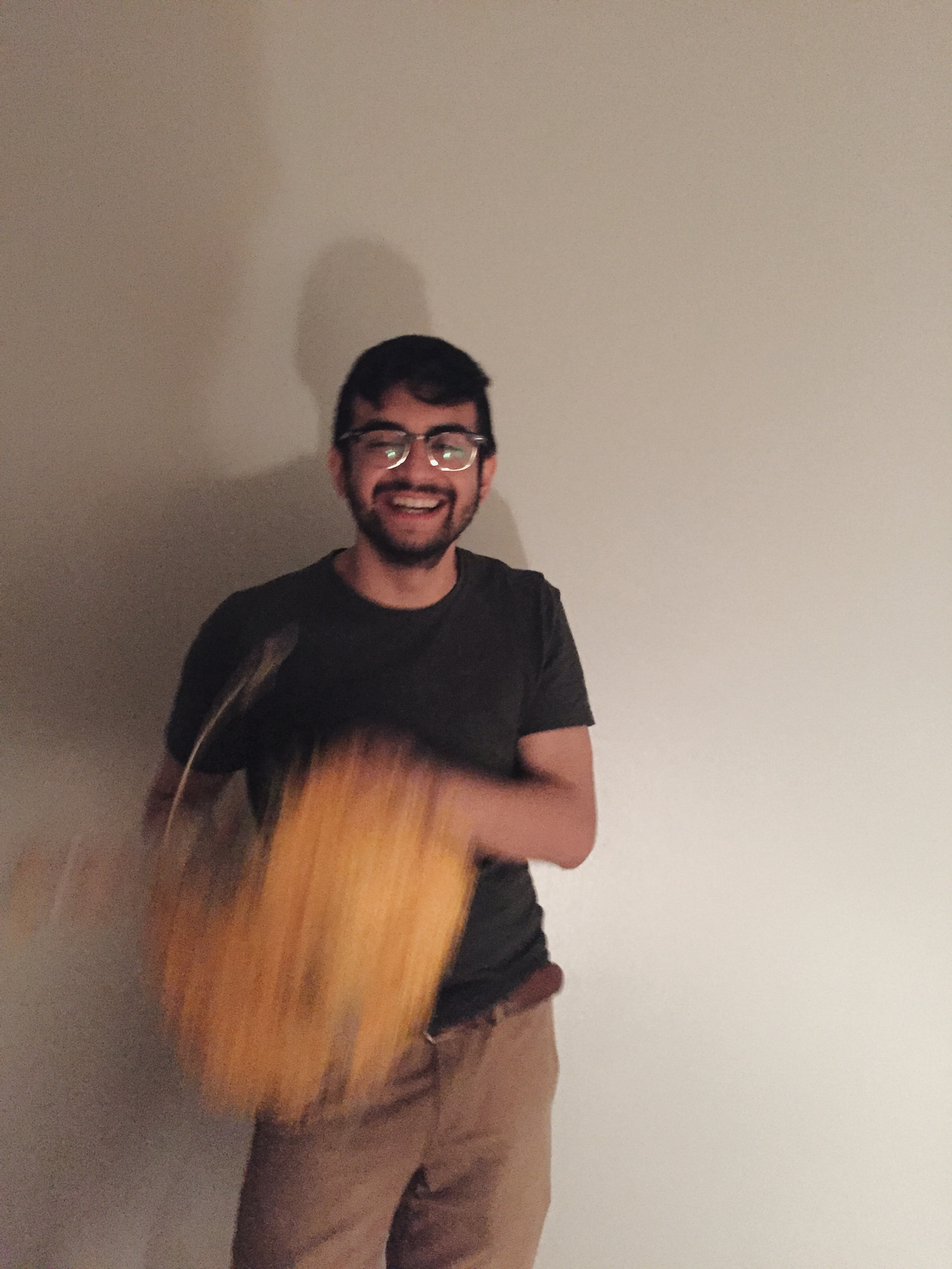
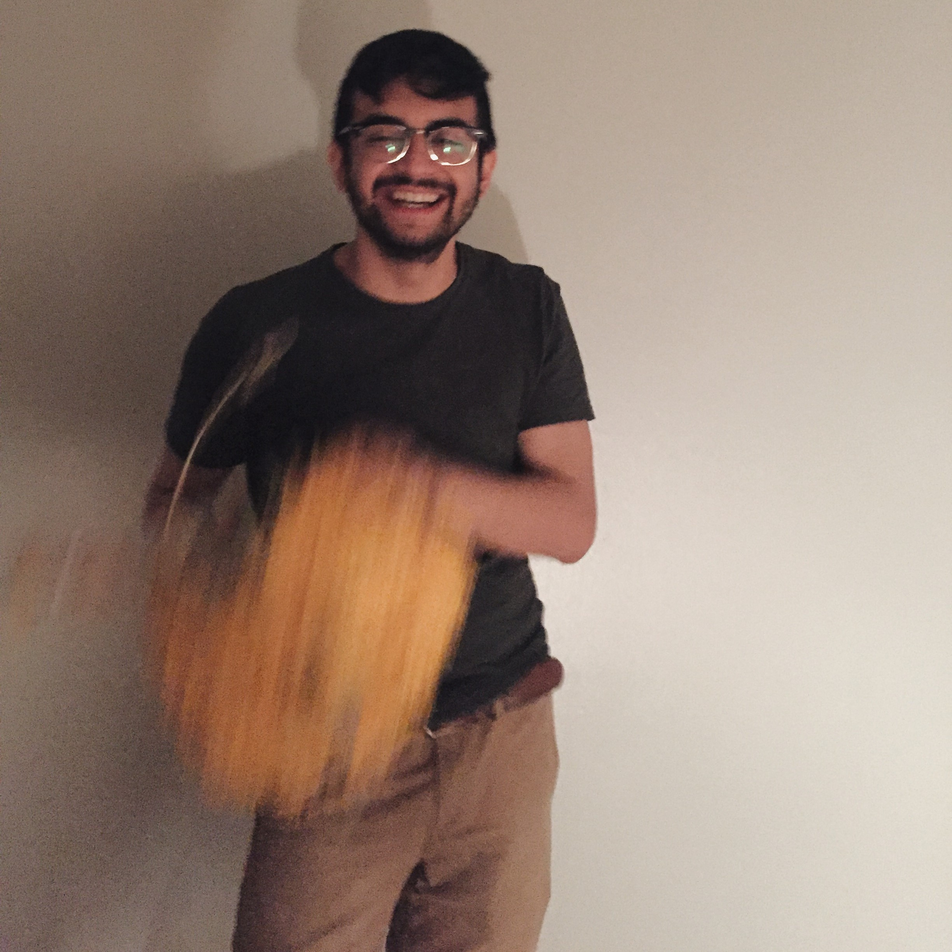
adjust image resolutions for equal ratios and complete splash

diff --git a/templates/splash.html b/templates/splash.html
@@ -9,6 +9,9 @@
     #background {
         background-size: cover;
     }*/
+    .d-flex {
+        display:flex;
+    }
     </style>
 {% endblock %}
 {% block content %}
@@ -48,7 +51,7 @@
                                 <p>Check out our team!</p>
                             </li>
                             <li>
-                                <a target="_blank" href="/about" class="btn btn-primary btn-lg" rel="nofollow">About Us</a>
+                                <a href="/about" class="btn btn-primary btn-lg" rel="nofollow">About Us</a>
                             </li>
                         </ul>
                     </div>
@@ -64,7 +67,7 @@
                     <!--Video source-->
                     <div align="center" class="embed-responsive embed-responsive-16by9">
                         <video autoplay loop class="embed-responsive-item">                        
-                            <source src="https://mdbootstrap.com/img/video/Lines.mp4" type="video/mp4" />
+                            <source src="https://mdbootstrap.com/img/video/forest.mp4" type="video/mp4" />
                         </video>
                     </div>
                     <div class="mask"></div>
@@ -75,13 +78,21 @@
                     <div class="flex-center animated fadeInDown">
                         <ul>
                             <li>
-                                <h1 class="h1-responsive">Our Models</h1>
+                                <h1 class="h1-responsive">Our Bookshelf</h1>
                             </li>
                             <li>
-                                <p>Click below to check them out!</p>
+                                <p>Click below to check out what we got!</p>
                             </li>
                             <li>
-                                <a target="_blank" href="/models" class="btn btn-primary btn-lg" rel="nofollow">Bookshelf</a>
+                                <div class="btn-group">
+                                    <button class="btn btn-primary dropdown-toggle" type="button" data-toggle="dropdown" aria-haspopup="true" aria-expanded="false">Models</button>
+                                
+                                    <div class="dropdown-menu">
+                                        <a class="dropdown-item" href="#">Books</a>
+                                        <a class="dropdown-item" href="#">Authors</a>
+                                        <a class="dropdown-item" href="#">Publishers</a>
+                                    </div>
+                                </div>
                             </li>
                         </ul>
                     </div>
@@ -89,38 +100,6 @@
                 <!--/.Caption-->
             </div>
             <!--/Second slide-->
-
-            <!--Third slide-->
-            <div class="carousel-item">
-                <!--Mask color-->
-                <div class="view hm-black-light">
-                    <!--Video source-->
-                    <div align="center" class="embed-responsive embed-responsive-16by9">
-                        <video autoplay loop class="embed-responsive-item">
-                            <source src="https://www.youtube.com/watch?v=9G7ER_pVnG8" type="video/mp4" />
-                        </video>
-                    </div>
-                    <div class="mask"></div>
-                </div>
-
-                <!--Caption-->
-                <div class="carousel-caption">
-                    <div class="flex-center animated fadeInDown">
-                        <ul>
-                            <li>
-                                <h1 class="h1-responsive">Visit our support forum</h1></li>
-                            <li>
-                                <p>Our community can help you with any question</p>
-                            </li>
-                            <li>
-                                <a target="_blank" href="https://mdbootstrap.com/forums/forum/support/" class="btn btn-default btn-lg" rel="nofollow">Support forum</a>
-                            </li>
-                        </ul>
-                    </div>
-                </div>
-                <!--/.Caption-->
-            </div>
-            <!--/Third slide-->
         </div>
         <!--/.Slides-->
 
@@ -145,10 +124,10 @@
             </div>
             <br/>
             <div class="container-fluid">
-                <div class="row">
+                <div class="row d-flex">
                     <div class="col-md-1 ml-auto"></div>                          
                     <!--First column-->
-                    <div class="col-md-2 ml-auto">
+                    <div class="col-md-2 ml-auto d-flex">
                         <!--Card-->
                         <div class="card">
                         
@@ -160,8 +139,8 @@
                                 <!--Title-->
                                 <h4 class="card-title">Carlos Loya</h4>
                                 <!--Text-->
-                                <p class="card-text">Some quick example text to build on the card title and make up the bulk of the card's content.</p>
-                                <a href="#" class="btn btn-primary">Button</a>
+                                <p align="center" class="card-text">Carlos Loya (C)</p>
+                                <center><a type="button" class="btn btn-elegant btn-git"><i class="fa fa-github left"></i></a></center>
                             </div>
                         
                         </div>
@@ -170,7 +149,7 @@
                     <!--/.First column-->
                     <hr class="w-100 clearfix d-sm-none">
                     <!--Second column-->
-                    <div class="col-md-2 ml-auto">
+                    <div class="col-md-2 ml-auto d-flex">
                         <!--Card-->
                         <div class="card">
                             <!--Card image-->
@@ -181,8 +160,8 @@
                                 <!--Title-->
                                 <h4 class="card-title">Andrew Chen</h4>
                                 <!--Text-->
-                                <p class="card-text">Some quick example text to build on the card title and make up the bulk of the card's content.</p>
-                                <a href="#" class="btn btn-primary">Button</a>
+                                <p align="center" class="card-text">Andrew Chen (A)</p>
+                                <center><a type="button" class="btn btn-elegant btn-git"><i class="fa fa-github left"></i></a></center>                           
                             </div>
                         
                         </div>
@@ -191,7 +170,7 @@
                     <!--/.Second column-->
                     <hr class="w-100 clearfix d-sm-none">
                     <!--Third column-->
-                    <div class="col-md-2 ml-auto">
+                    <div class="col-md-2 ml-auto d-flex">
                         <!--Card-->
                         <div class="card">
                             <!--Card image-->
@@ -202,17 +181,16 @@
                                 <!--Title-->
                                 <h4 class="card-title">Nancy Tran</h4>
                                 <!--Text-->
-                                <p class="card-text">Some quick example text to build on the card title and make up the bulk of the card's content.</p>
-                                <a href="#" class="btn btn-primary">Button</a>
+                                <p align="center" class="card-text">Nancy Tran (N)</p>
+                                <center><a type="button" class="btn btn-elegant btn-git"><i class="fa fa-github left"></i></a></center>
                             </div>
-                        
                         </div>
                         <!--/.Card-->
                     </div>
                     <!--/.Third column-->
                     <hr class="w-100 clearfix d-sm-none">
                     <!--Fourth column-->
-                    <div class="col-md-2 ml-auto">
+                    <div class="col-md-2 ml-auto d-flex">
                         <!--Card-->
                         <div class="card">
                         <!--Card image-->
@@ -223,15 +201,15 @@
                                 <!--Title-->
                                 <h4 class="card-title">Jatin Konchady</h4>
                                 <!--Text-->
-                                <p class="card-text">Some quick example text to build on the card title and make up the bulk of the card's content.</p>
-                                <a href="#" class="btn btn-primary">Button</a>
+                                <p align="center" class="card-text">Jatin Konchady (J)</p>
+                                <center><a type="button" class="btn btn-elegant btn-git"><i class="fa fa-github left"></i></a></center>
                             </div>
                         </div>
                         <!--/.Card-->
                     </div>
                     <hr class="w-100 clearfix d-sm-none">                    
                     <!--/.Fourth column-->
-                    <div class="col-md-2 ml-auto">
+                    <div class="col-md-2 ml-auto d-flex">
                         <!--Card-->
                         <div class="card">
                         <!--Card image-->
@@ -242,8 +220,8 @@
                                 <!--Title-->
                                 <h4 class="card-title">Andrew Rogalla</h4>
                                 <!--Text-->
-                                <p class="card-text">Some quick example text to build on the card title and make up the bulk of the card's content.</p>
-                                <a href="#" class="btn btn-primary">Button</a>
+                                <p align="center" class="card-text">Andrew Rogalla (A)</p>
+                                <center><a type="button" class="btn btn-elegant btn-git"><i class="fa fa-github left"></i></a></center>
                             </div>
                         </div>
                         <!--/.Card-->
@@ -257,15 +235,4 @@
     
             <hr>
     
-            <!--Call to action-->
-            <div class="call-to-action">
-                <h4>Material Design for Bootstrap</h4>
-                <ul>
-                    <li>
-                        <h5>Get our UI KIT for free</h5></li>
-                    <li><a target="_blank" href="https://mdbootstrap.com/getting-started/" class="btn btn-danger" rel="nofollow">Sign up!</a></li>
-                    <li><a target="_blank" href="https://mdbootstrap.com/material-design-for-bootstrap/" class="btn btn-default" rel="nofollow">Learn more</a></li>
-                </ul>
-            </div>
-            <!--/.Call to action-->
 {% endblock %}

diff --git a/models.py b/models.py
@@ -52,7 +52,7 @@ class Book_Authors_Association(Base):
 
 # Change postgresql://postgres:asd123@localhost/---->postgres<---- to the name of the database you give to your local system
 # postgresql://DB_USER:PASSWORD@HOST/DATABASE
-SQLALCHEMY_DATABASE_URI = os.getenv('SQLALCHEMY_DATABASE_URI', 'postgresql://postgres:asd123@localhost/postgres')
+SQLALCHEMY_DATABASE_URI = os.getenv('SQLALCHEMY_DATABASE_URI', 'postgresql://postgres:password@localhost/postgres')
 engine = create_engine(SQLALCHEMY_DATABASE_URI)
 
 Base.metadata.drop_all(engine)
